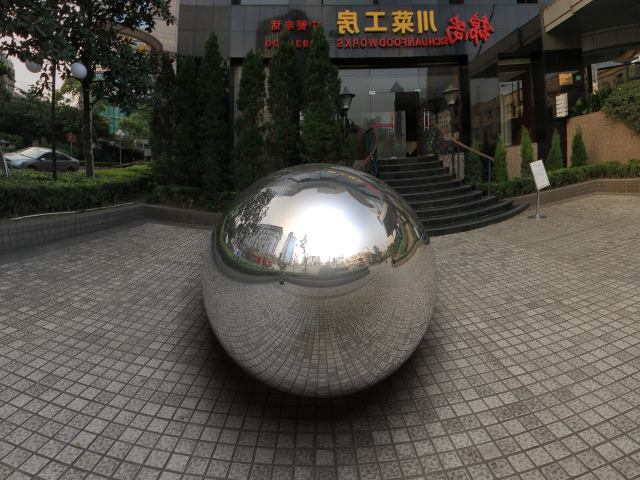
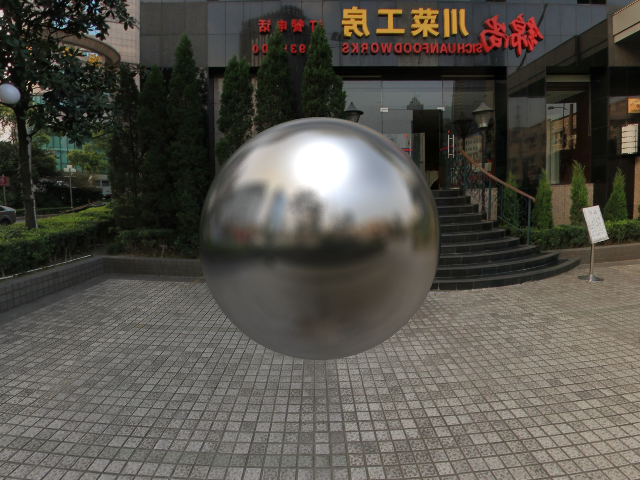
Fixed a bug in diffuse reflections
Also re-render some scenes

diff --git a/Raytracer/src/core/materials/DiffuseMaterial.cpp b/Raytracer/src/core/materials/DiffuseMaterial.cpp
@@ -46,23 +46,24 @@ namespace raytracer
 		}
 		// Trace diffuse reflected rays
 		if (depth > 2 && reflectRate > 0.0f) {
-			Direction baseRefl = c.ray->dir - 2.0f * rdirDotNorm * c.normal;
-			Direction baseX = Direction(baseRefl.z, baseRefl.y, -baseRefl.x); // cross(baseRefl, c.normal);
-			Direction baseY = cross(baseRefl, baseX);
+			Direction baseRefl = normalize(c.ray->dir - 2.0f * rdirDotNorm * c.normal);
+			Direction baseX = normalize(cross(c.normal, baseRefl)); // Direction(baseRefl.z, baseRefl.y, -baseRefl.x);
+			Direction baseY = normalize(cross(baseX, baseRefl));
 			Color summColor;
 			float baseOffs, xOffs, yOffsRange, yOffs;
 			for (size_t i = 0; i < properties.diffuseSamples; ++i) {
 				do {
-					xOffs = Mathf::randFloat(properties.diffuseRad) * properties.diffuseRad;
-					yOffs = Mathf::randFloat(properties.diffuseRad) * properties.diffuseRad;
+					xOffs = Mathf::randFloat(-properties.diffuseRad, properties.diffuseRad);
+					yOffs = Mathf::randFloat(-properties.diffuseRad, properties.diffuseRad);
 				} while ((xOffs * xOffs + yOffs * yOffs) > (properties.diffuseRad * properties.diffuseRad));
-				Direction reflDir = baseRefl + baseX * xOffs + baseY * yOffs * properties.diffuseRad;
+				Direction reflDir = baseRefl + baseX * xOffs + baseY * yOffs;
 				// Reflect rays that direct inside the object to outside through baseRefl
 				if (dot(reflDir, c.normal) < 0.0f) {
 					reflDir = -reflDir - 2.0f * dot(-reflDir, baseRefl) * baseRefl;
 				}
 				summColor += reflectRate * properties.specular *
-					Raytracer::findColor(Ray(c.point, normalize(reflDir)), depth - 1, outRefrInd);
+					Raytracer::findColor(Ray::BuildShifted(c.point, normalize(reflDir)), 
+						depth - 1, outRefrInd);
 			}
 			color += summColor / ((float)properties.diffuseSamples);
 		}

diff --git a/Raytracer/src/core/lights/Light.cpp b/Raytracer/src/core/lights/Light.cpp
@@ -20,11 +20,11 @@ namespace raytracer
 				return Colors::BLACK;
 			}
 		}
-
-		Direction normal = c.normal; // dot(c.ray->dir, c.normal) > (-FLT_EPS) ? -c.normal : c.normal;
+		// Determ is it inside of object? If yes then invert norm direction
+		Direction normal = dot(c.ray->dir, c.normal) > (-FLT_EPS) ? -c.normal : c.normal;
 		float cos		 = dot(normal, negLDir);
 		Color diffuse	 = mProperties.diffuse * max(cos, 0.f);
-
+		
 		Direction h		 = normalize(negLDir - c.ray->dir);
 		float nh		 = max(dot(normal, h), 0.f);
 		Color specular	 = mProperties.specular * pow(nh, mProperties.shininess);

diff --git a/Raytracer/src/utils/Parser.cpp b/Raytracer/src/utils/Parser.cpp
@@ -98,6 +98,14 @@ namespace raytracer
 					}
 				}
 			}
+			else if (cmd == "fast_area_light") {
+				isInputValid = readVals(s, 7, values);
+				if (isInputValid) {
+					builder.addLight(new FastAreaLight(
+						Position(values[0], values[1], values[2]),
+						Color(values[3], values[4], values[5]), values[6]));
+				}
+			}
 			else if (cmd == "attenuation") {
 				isInputValid = readVals(s, 3, values);
 				if (isInputValid) {

diff --git a/Raytracer/src/core/lights/AreaLight.cpp b/Raytracer/src/core/lights/AreaLight.cpp
@@ -51,7 +51,7 @@ namespace raytracer
 			if (sunshadeDObject->material->properties.transmitRate > 0.0f) {
 				transmitRate *= sunshadeDObject->material->properties.transmitRate * 0.70f;
 			} else {
-				return Colors::BLACK;
+				// return Colors::BLACK; // TODO: TMP return return
 			}
 		}
 		Direction normal = dot(c.ray->dir, c.normal) > (-FLT_EPS) ? -c.normal : c.normal;

diff --git a/Raytracer/src/main.cpp b/Raytracer/src/main.cpp
@@ -28,7 +28,7 @@ using namespace std;
 
 int main()
 {
-	string inputFile = "C:\\Dropbox\\Code\\Cpp\\Raytracer\\Raytracer\\res\\test_scenes\\DebugScene.test";
+	string inputFile = "C:\\Dropbox\\Code\\Cpp\\Raytracer\\Raytracer\\res\\test_scenes\\EnvMapping.test";
 	World::initialize();
 
 	World::setActiveScene(Parser::parseFile(inputFile));

diff --git a/Raytracer/src/utils/Parser.h b/Raytracer/src/utils/Parser.h
@@ -16,6 +16,7 @@
 #include "../core/lights/PointLight.h"
 #include "../core/lights/DirectionalLight.h"
 #include "../core/lights/AreaLight.h"
+#include "../core/lights/FastAreaLight.h"
 #include "../core/Scene.h"
 #include "../geometry/primitives/Plane.h"
 #include "../geometry/primitives/Rectangle.h"

diff --git a/Raytracer/src/core/DisplayObject.h b/Raytracer/src/core/DisplayObject.h
@@ -11,6 +11,7 @@ namespace raytracer
 	class DisplayObject
 	{
 	public:
+		// TODO: Maki it const
 		Shape* shape;
 		Material* material;
 

diff --git a/README.md b/README.md
@@ -16,24 +16,25 @@
 
 ######Futher work:
 
-- [ ] More realistic diffuse reflections (Hemisphere samling)
+- [ ] Realize acceleration structure (KD-Tree)
 - [ ] More realistic transparency (Fresnel equation)
 - [ ] Depth of field
 - [ ] Mothion blur
+- [ ] Optimization on GPU
  
 <br>
 ### Some rendered scenes below. 
 <br>
 ##### > Monte Carlo area light, reflections and refractions:
-&nbsp;&nbsp;&nbsp;&nbsp;&nbsp;&nbsp;&nbsp;&nbsp;&nbsp;&nbsp;&nbsp;![Image of Yaktocat](/Resources/Imgs/Results/CornellBox1.png) 
+&nbsp;&nbsp;&nbsp;&nbsp;&nbsp;&nbsp;&nbsp;&nbsp;&nbsp;&nbsp;&nbsp;![CornellBox](/Resources/Imgs/Results/CornellBox1.png) 
 ##### > Environment mapping:
-&nbsp;&nbsp;&nbsp;&nbsp;&nbsp;&nbsp;&nbsp;&nbsp;&nbsp;&nbsp;&nbsp;![Image of Yaktocat](/Resources/Imgs/Results/em1.png)
+&nbsp;&nbsp;&nbsp;&nbsp;&nbsp;&nbsp;&nbsp;&nbsp;&nbsp;&nbsp;&nbsp;![Environment mapping](/Resources/Imgs/Results/em1.png)
 ##### > Diffuse reflections:
-&nbsp;&nbsp;&nbsp;&nbsp;&nbsp;&nbsp;&nbsp;&nbsp;&nbsp;&nbsp;&nbsp;![Image of Yaktocat](/Resources/Imgs/Results/dr2.1.png) <br>
-&nbsp;&nbsp;&nbsp;&nbsp;&nbsp;&nbsp;&nbsp;&nbsp;&nbsp;&nbsp;&nbsp;![Image of Yaktocat](/Resources/Imgs/Results/dr3.0.png) <br>
-&nbsp;&nbsp;&nbsp;&nbsp;&nbsp;&nbsp;&nbsp;&nbsp;&nbsp;&nbsp;&nbsp;![Image of Yaktocat](/Resources/Imgs/Results/dr3.1.png)
+&nbsp;&nbsp;&nbsp;&nbsp;&nbsp;&nbsp;&nbsp;&nbsp;&nbsp;&nbsp;&nbsp;![Diffuse reflections](/Resources/Imgs/Results/dr1.png) <br>
+&nbsp;&nbsp;&nbsp;&nbsp;&nbsp;&nbsp;&nbsp;&nbsp;&nbsp;&nbsp;&nbsp;![Diffuse reflections](/Resources/Imgs/Results/dr2.png) <br>
+&nbsp;&nbsp;&nbsp;&nbsp;&nbsp;&nbsp;&nbsp;&nbsp;&nbsp;&nbsp;&nbsp;![Diffuse reflections](/Resources/Imgs/Results/dr3.png)
 ##### > Triangle mesh:
-&nbsp;&nbsp;&nbsp;&nbsp;&nbsp;&nbsp;&nbsp;&nbsp;&nbsp;&nbsp;&nbsp;![Image of Yaktocat](/Resources/Imgs/Results/scene7.png)
+&nbsp;&nbsp;&nbsp;&nbsp;&nbsp;&nbsp;&nbsp;&nbsp;&nbsp;&nbsp;&nbsp;![Triangle mesh](/Resources/Imgs/Results/scene7.png)
 ##### > Transparency (visualisation of Snell's law):
 ![Image of Yaktocat](/Resources/Imgs/Results/refr1.png)
 ##### > Texture mapping:
